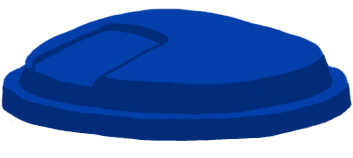
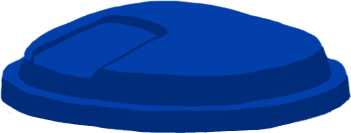
responsive bins

diff --git a/src/sass/select.scss b/src/sass/select.scss
@@ -58,18 +58,25 @@
 	transition: transform 800ms $ease;
 	pointer-events: none;
 	transform: translateY(400px);
+	@include lg-width {
+		margin: 0;
+	}
+	@include md-width {
+		width: 180px;
+		height: 245px;
+	}
 	img {
 		width: 220px;
 		height: auto;
 		position: absolute;
 		left: 0;
 		transform: translate3d(0, 0, 0);
+		@include md-width {
+			width: 180px;
+		}
 	}
 	.show-bins & {
 		transform: translateY(0px);
-	}
-	@include md-width {
-		margin: 0;
 	}
 }
 img.bin-front {
@@ -77,17 +84,28 @@ img.bin-front {
 }
 img.bin-lid {
 	position: absolute;
-	bottom: 107px;
+	bottom: 115px;
 	transition: transform 400ms $ease;
 	.organics & {
 		width: 232px;
 		left: 2px;
 		bottom: 122px;
 		transform-origin: right bottom;
+		@include md-width {
+			width: 190px;
+			left: 0px;
+			bottom: 100px;
+		}
+	}
+	@include md-width {
+		bottom: 95px;
 	}
 }
 img.bin-back {
 	bottom: 45%;
+	@include md-width {
+		bottom: 97px;
+	}
 }
 
 $bins: ("paper", "mgp", "landfill", "organics");
@@ -101,6 +119,9 @@ $bins: ("paper", "mgp", "landfill", "organics");
 		img.bin-lid {
 			@if $bin == "organics" {
 				transform: translateX(-13px) translateY(13px) rotate(45deg);
+				@include md-width {
+					transform: translateX(-10px) translateY(5px) rotate(45deg);
+				}
 			} @else {
 				transform: translateX(100px) translateY(-60px) rotate(45deg);
 			}

diff --git a/src/sass/vars.scss b/src/sass/vars.scss
@@ -1,38 +1,36 @@
 $portrait-width: 160px;
-
 $sm-width: 640px;
-$md-width: 720px;
+$md-width: 768px;
 $lg-width: 1020px;
 $xl-width: 1440px;
+$sm-height: 710px;
 
 @mixin sm-width {
-	@media (max-width: $sm-width) {
+	@media (max-width: #{$sm-width - 1px}) {
 		@content;
 	}
 }
 
 @mixin md-width {
-	@media (max-width: $md-width) {
+	@media (max-width: #{$md-width - 1px}) {
 		@content;
 	}
 }
 
 @mixin lg-width {
-	@media (max-width: $lg-width) {
+	@media (max-width: #{$lg-width - 1px}) {
 		@content;
 	}
 }
 
 @mixin xl-width {
-	@media (max-width: $xl-width) {
+	@media (max-width: #{$xl-width - 1px}) {
 		@content;
 	}
 }
 
-$sm-height: 710px;
-
 @mixin sm-height {
-	@media (max-height: $sm-height) {
+	@media (max-height: #{$sm-height - 1px}) {
 		@content;
 	}
 }
